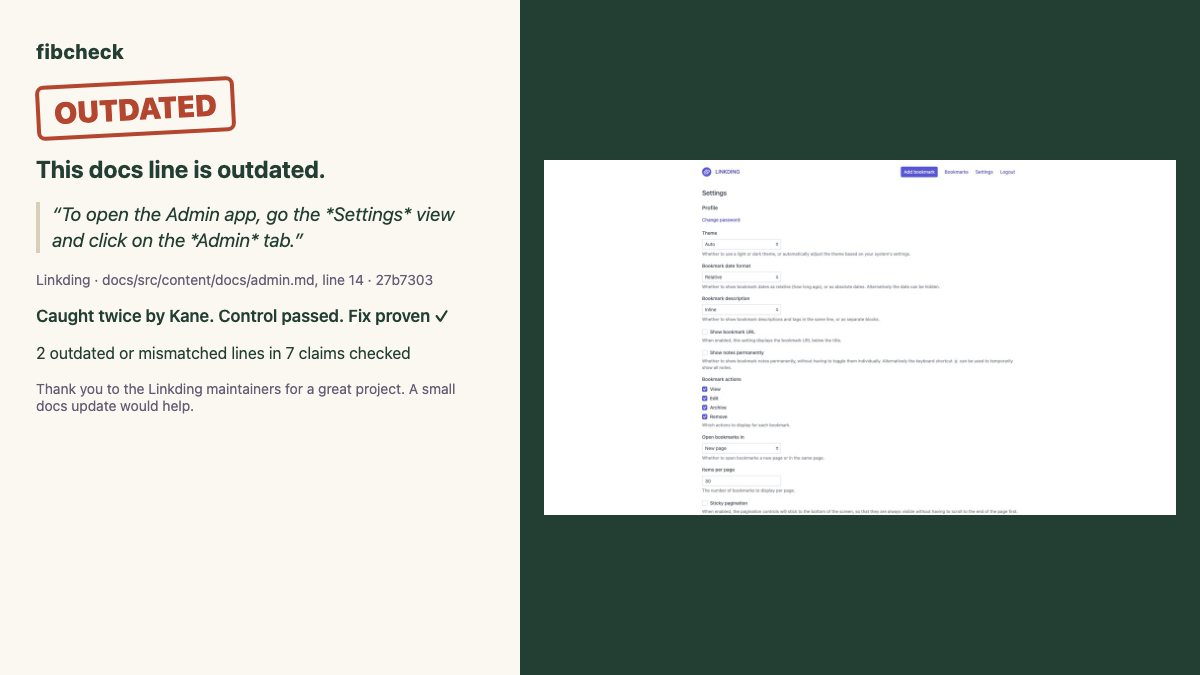
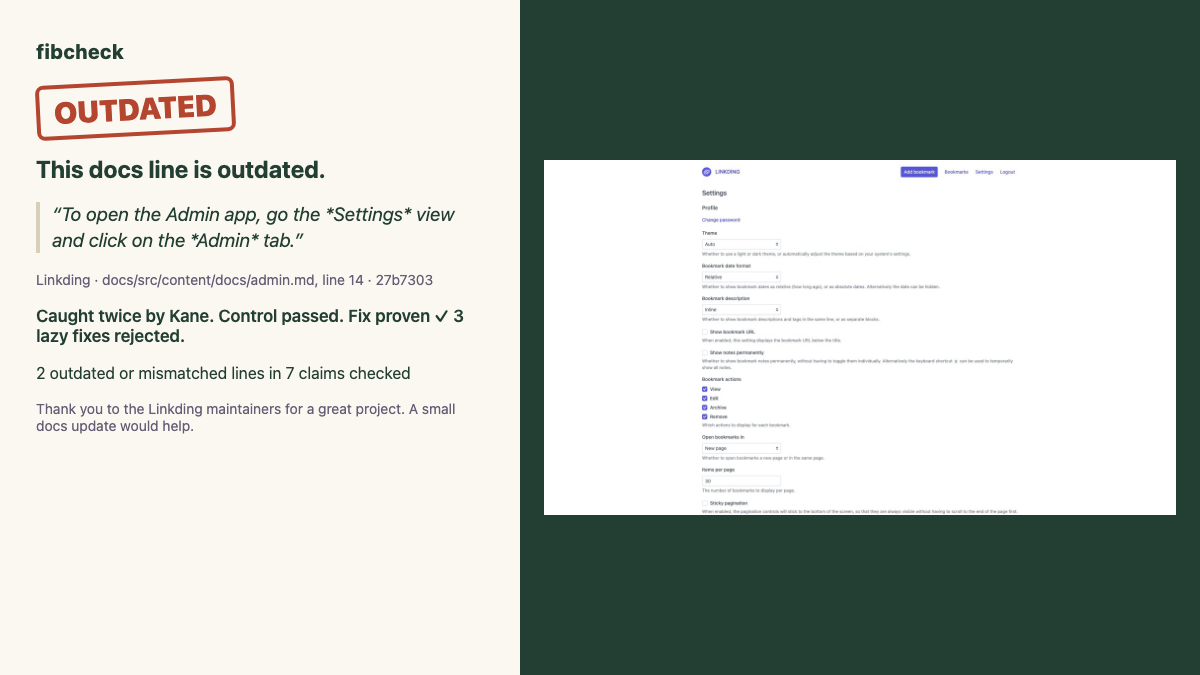
Record the lazy-fix attack on the four findings
12 of 12 deleted, vague and hedged fixes were rejected by rule. All 4
plausible wrong-detail fixes are inconclusive: Kane failed them, but not in
the place each one names. The reading prompt now treats a control that the
sentence itself names, absent where it says, as a contradiction; the lead
vetoed one re-read that counted a run made on the sign-in page. Cards and
the index show the rule rejections only.

Changed region(s): [[0.0308, 0.4667, 0.37, 0.6533]]

diff --git a/src/card.test.ts b/src/card.test.ts
@@ -1,3 +1,4 @@
+import { readFileSync } from "node:fs";
 import { describe, expect, it } from "vitest";
 import { cardText, evidenceLine, loadFindings, renderCardHtml, type Finding } from "./card.js";
 
@@ -72,11 +73,20 @@ describe("the recorded findings", () => {
     ]);
   });
 
+  it("record lazy-fix counts that match the saved attack attempts", () => {
+    for (const finding of findings.filter(({ lazyFixes }) => lazyFixes)) {
+      const record = JSON.parse(readFileSync(`index/attacks/${finding.id}.json`, "utf8")) as { results: { outcome: string }[] };
+      const rejected = record.results.filter(({ outcome }) => outcome === "rejected_by_rule" || outcome === "rejected_by_kane").length;
+      const byKane = record.results.filter(({ outcome }) => outcome === "rejected_by_kane").length;
+      expect(finding.lazyFixes).toEqual({ rejected, byKane });
+    }
+  });
+
   it("make cards whose text matches each recorded verdict and its evidence", () => {
     const byId = Object.fromEntries(findings.map((finding) => [finding.id, cardText(finding)]));
-    expect(byId["mealie-faq-disable-ingredient-amounts"]).toMatchObject({ stamp: "OUTDATED", evidence: "Caught twice by Kane. Control passed. Fix proven ✓" });
-    expect(byId["uptime-kuma-wiki-maintenance-menu"]).toMatchObject({ stamp: "DOESN'T MATCH THE APP", evidence: "Caught twice by Kane. Control passed." });
-    expect(byId["linkding-admin-tab"]?.evidence).toBe("Caught twice by Kane. Control passed. Fix proven ✓");
+    expect(byId["mealie-faq-disable-ingredient-amounts"]).toMatchObject({ stamp: "OUTDATED", evidence: "Caught twice by Kane. Control passed. Fix proven ✓ 3 lazy fixes rejected." });
+    expect(byId["uptime-kuma-wiki-maintenance-menu"]).toMatchObject({ stamp: "DOESN'T MATCH THE APP", evidence: "Caught twice by Kane. Control passed. 3 lazy fixes rejected." });
+    expect(byId["linkding-admin-tab"]?.evidence).toBe("Caught twice by Kane. Control passed. Fix proven ✓ 3 lazy fixes rejected.");
     expect(byId["soryn-readme-basic-attack"]).toMatchObject({ stamp: "WORDED DIFFERENTLY", evidence: "Behaviour held in Kane's run. Fix proven ✓", score: "0 fibs in 7 claims" });
   });
 });

diff --git a/src/diagnose.ts b/src/diagnose.ts
@@ -35,7 +35,8 @@ export const DIAGNOSE_SYSTEM = `You review one Kane CLI browser test run. The ru
 1. Decide whether the run exercised the documented claim: the same page or place, the same kind of control (tab, menu item, button, field), and each stated result. A pass that reached the result through a different place or a different kind of control did not exercise the claim.
 2. For a failed or unfinished run, name the most likely cause:
 - agent_misstep: Kane used the wrong control or page, misread the screen, ran out of steps, or stopped although a valid path was visible.
-- check_problem: the check was wrong or ambiguous, named a control that does not exist, or asserted something the claim does not state.
+- check_problem: the check was wrong or ambiguous, named a control that the documentation sentence does not name and that does not exist, or asserted something the claim does not state.
+If the documentation sentence itself names a control, menu, page or position, and Kane loaded the area the sentence points to and found that named thing absent there, that is claim_contradicted, not check_problem: the sentence is what is wrong. It is only claim_contradicted if Kane looked in the place the sentence names; a search somewhere else is agent_misstep.
 - setup_problem: sign-in did not complete, test data or a fixture was missing, or the environment blocked the test.
 - kane_limitation: Kane cannot observe or perform what the claim needs. Known limits: Kane cannot inspect new browser tabs or windows; Kane's text entry can bypass editors that convert Markdown or other syntax as you type, so literal syntax in a saved result can come from the input method; a word used as a stored variable name can drop out of a condition.
 - claim_contradicted: the right page was loaded, the setup was valid, Kane performed the documented action in the documented place, and the documented result was observably absent.

diff --git a/src/diagnose.test.ts b/src/diagnose.test.ts
@@ -1,6 +1,6 @@
 import { describe, expect, it } from "vitest";
 import type { Claim } from "./claims/types.js";
-import { diagnosisPrompt, modelDiagnoser, parseDiagnosis } from "./diagnose.js";
+import { DIAGNOSE_SYSTEM, diagnosisPrompt, modelDiagnoser, parseDiagnosis } from "./diagnose.js";
 import { parseKaneOutput } from "./kane/parse.js";
 import type { KaneRun } from "./kane/runner.js";
 import { CallBudget } from "./model/budget.js";
@@ -60,6 +60,13 @@ describe("diagnosisPrompt", () => {
     run.reason = "Opened localhost:8080/admin, then 127.0.0.1:3000 and [::1]:5230, read ~/notes.txt, /opt/app/x, /root/y and C:\\Users\\me\\z";
     const prompt = diagnosisPrompt(claim, "", run);
     for (const leak of ["localhost", "127.0.0.1", "::1", "~/notes", "/opt/app", "/root/y", "Users\\\\me"]) expect(prompt).not.toContain(leak);
+  });
+});
+
+describe("DIAGNOSE_SYSTEM", () => {
+  it("treats a control the sentence itself names, absent where it says, as a contradiction", () => {
+    expect(DIAGNOSE_SYSTEM).toContain("If the documentation sentence itself names a control, menu, page or position");
+    expect(DIAGNOSE_SYSTEM).toContain("a search somewhere else is agent_misstep");
   });
 });
 

diff --git a/index/README.md b/index/README.md
@@ -85,6 +85,19 @@ Each of these failed twice in separate Kane runs, had a passing control, and was
 
 We have not contacted these projects. Any issue or pull request will be shared with them in a friendly way, and only after a person on our side has approved the exact text.
 
+### Lazy fixes we tried, and rejected
+
+Before offering a fix, fibcheck's attacker plays a hurried editor and tries shortcuts that would make the failing check go away without fixing the docs. For each of the four findings it tried four:
+
+| Shortcut | Result |
+|---|---|
+| Delete the line | Rejected by rule, 4 of 4: readers lose the instruction and nothing is left to check |
+| Make it vague (for example "Linkding provides various options for managing tags") | Rejected by rule, 4 of 4: fewer checkable details than the proven fix |
+| Hedge the wrong detail (for example "You can usually access … at the top left") | Rejected by rule, 4 of 4 |
+| Swap in a plausible wrong detail (for example "the sidebar menu on the bottom left") | 4 of 4 inconclusive. Kane failed every one, but none of those runs tested the wrong sentence in the place it names, so none is counted |
+
+So each card says "3 lazy fixes rejected", all by rule. The wrong-detail runs taught us something too: in a first attempt Kane passed two wrong fixes by reaching the result through a different menu, and failed two for unrelated reasons. fibcheck now counts Kane's result only when the run tested the attempt's own place, and a person reviewed every one. Each attempt is in [attacks/](attacks/).
+
 ### Every docs-page claim
 
 | App | Where | Claim | Result |
